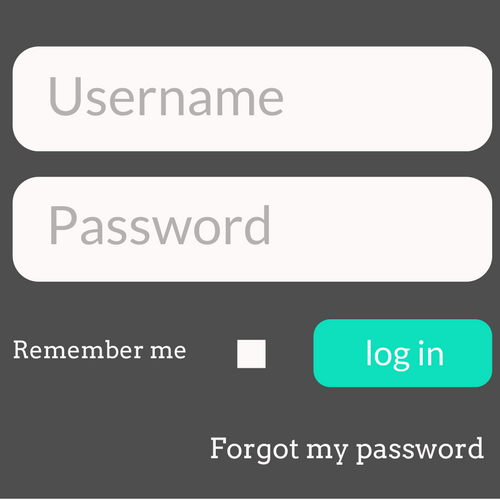
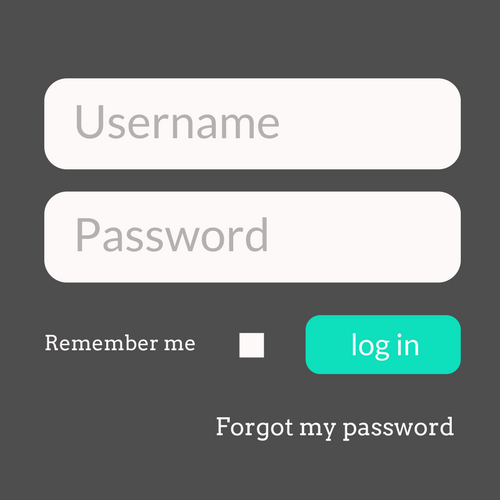
style updates login

diff --git a/app/assets/stylesheets/login.scss b/app/assets/stylesheets/login.scss
@@ -23,11 +23,17 @@ $primary-color: #0ee0bd;
   padding-bottom: 50px;
   box-shadow: 15px 11px 51px 0px rgba(184,184,184,1);
 
+  h2{
+      color: $primary-color;
+      text-align: center;
+    }
+
 
   header{
     border-bottom: 5px solid $primary-color;
     display: flex;
     justify-content: space-between;
+    height: 100px;
 
     .circle:before {
       content: ' \25CF';
@@ -39,6 +45,7 @@ $primary-color: #0ee0bd;
 
     img{
       padding-right: 10px;
+      align-self: center;
     }
 
   }
@@ -50,19 +57,18 @@ $primary-color: #0ee0bd;
       flex-direction: column;
       align-items: center;
       text-align: center;
-      border: 1px solid $primary-color;
       border-radius: 20px;
       justify-content: flex-start;
       padding: 0;
       height: 240px;
       width: 60%;
-      margin-top: 40px;
+      margin-top: 10px;
       padding: 10px 30px;
       align-self: center;
 
 
         form input[type=email], form input[type=password]{
-          width: 200px;
+          width: 350px;
           height: 20px;
           margin: 10px;
 

diff --git a/app/assets/stylesheets/home.scss b/app/assets/stylesheets/home.scss
@@ -6,6 +6,7 @@
 //font-family: 'Roboto', sans-serif;
 
 $primary-color: #0ee0bd;
+$dark-grey: #4e4e4e;
 
 
 body {
@@ -18,8 +19,10 @@ body {
 nav {
   display: flex;
   justify-content: space-between;
-  height: 80px;
-  background-color: #0ee0bd;
+  height: 100px;
+  background-color: $dark-grey;
+  padding-left: 20px;
+  border-bottom: 4px solid $primary-color;
 
   img {
     align-self: center;
@@ -40,8 +43,6 @@ nav {
 
 .wrapper{
   background-color: white;
-  border-top: 2px solid $primary-color;
-  border-bottom: 2px solid $primary-color;
   display: flex;
   flex-wrap: wrap;
   margin: 0 auto;
@@ -80,6 +81,7 @@ footer{
   display: flex;
   justify-content: space-between;
   height: 80px;
+  background-color: $dark-grey;
   border-bottom: 1px solid $primary-color;
 
   .footerText, .social {
@@ -92,8 +94,7 @@ footer{
     border-radius: 45%;
 
     &:hover{
-      opacity: .5;
-      box-shadow: 15px 11px 51px 0px rgba(184,184,184,1);
+      opacity: .7;
     }
   }
 
